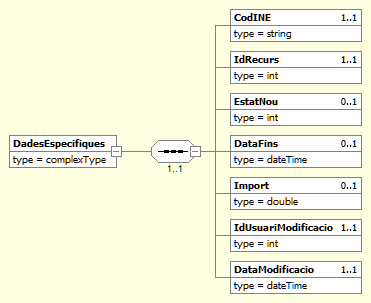
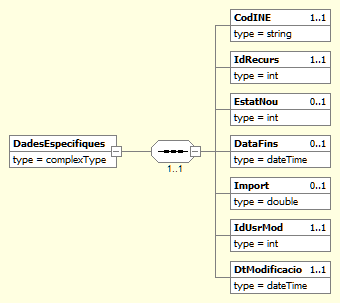
Se suben cambios realizados para adecuar nuestra versión a la de Lleida

diff --git a/ResolucioRecurs.md b/ResolucioRecurs.md
@@ -1,7 +1,7 @@
 # 1. Resolució de recurs (HESTIA_RESOLUCIORECURS)
 L'objectiu d'aquest servei és permetre l'actualització de l'estat d'un recurs de manera externa al servei Hèstia. Al procés de modificació de l'estat d'un recurs l'anomenem resolució del recurs. És important destacar que **només es podran resoldre recursos d'ABSS que tinguin implementat i disponible el servei** [`Avís nou recurs`](AvisNouRecurs.md) i que només es permetran actualitzar recursos associats a l'ABBS que realitza la petició.
 
-Per a poder realitzar l'actualització serà necessari indicar una sèrie  de paràmetres per a localitzar el recurs de manera unívoca. Serà obligatori indicar el codi INE de l'ABSS (`CodINE`), l'identificador intern del recurs a l'Hèstia (`IdRecurs`) i els camps del recurs que es desitgen actualitzar: l'estat del recurs (`EstatNou`), la data de finalització (`DataFins`) i l'import del recurs (`Import`). Finalment, caldrà informar l'identificador intern del professional que sol·licita l'operació (`IdUsuariModificacio`) i la data (`DataModificacio`) per poder traçar i auditar la resolució. 
+Per a poder realitzar l'actualització serà necessari indicar una sèrie  de paràmetres per a localitzar el recurs de manera unívoca. Serà obligatori indicar el codi INE de l'ABSS (`CodINE`), l'identificador intern del recurs a l'Hèstia (`IdRecurs`) i els camps del recurs que es desitgen actualitzar: l'estat del recurs (`EstatNou`), la data de finalització (`DataFins`) i l'import del recurs (`Import`). Finalment, caldrà informar l'identificador intern del professional que sol·licita l'operació (`IdUsrMod`) i la data (`DtModificacio`) per poder traçar i auditar la resolució. 
 
 És necessari indicar que només es permetran actualitzar recursos associats a l'ABBS que realitza la petició. A més, tots els paràmetres són obligatoris.  Per tant, s'aconsella realitzar una consulta sobre el recurs abans de  realitzar l'actualització, amb la finalitat d'obtenir els valors actuals del recurs. D'aquesta manera es podrà enviar el valor que actualment té el recurs, si no es vol modificar algun dels valors.
 
@@ -26,8 +26,8 @@ La missatgeria específica de la petició *HESTIA_RESOLUCIORECURS* es troba defi
 | | 3: Desistiment |
 |DadesEspecifiques/DataFins | Nova data de finalització del recurs |
 |DadesEspecifiques/Import | Import del recurs concedit |
-|DadesEspecifiques/IdUsuariModificacio | Identificador intern del professional que realitza la modificació |
-|DadesEspecifiques/DataModificacio | Data en la qual es realitza la modificació |
+|DadesEspecifiques/IdUsrMod | Identificador intern del professional que realitza la modificació |
+|DadesEspecifiques/DtModificacio | Data en la qual es realitza la modificació |
 
 ## 1.2. Resposta - dades específiques
 La missatgeria específica de la resposta *HESTIA_RECURSOS* es troba definida al document [Resposta_DadesEspecifiques_ResolucioRecursos.xsd](xsd/Resposta_DadesEspecifiques_ResolucioRecursos.xsd)
@@ -48,7 +48,7 @@ La missatgeria específica de la resposta *HESTIA_RECURSOS* es troba definida al
 ## 1.3. Joc de proves
 El joc de proves del servei vàlid per a l’entorn de pre-producció, és el que es detalla a continuació:
 
-|codINE | IdRecurs | EstatNou | DataFins | Import | IdUsuariModificacio | DataModificacio | Resultat|
+|codINE | IdRecurs | EstatNou | DataFins | Import | IdUsrMod | DtModificacio | Resultat|
 |------ | ---------- |------ |------ |------ |------ |------ |------ |
 |999999999 | | | | | | | (-9) Només es pot accedir a informació de la pròpia ABSS que realitza la consulta|
 |9821920002 | 100 | | | | | | (-2)  Identificador de recurs no vàlid |
@@ -94,8 +94,8 @@ El joc de proves del servei vàlid per a l’entorn de pre-producció, és el qu
                         <EstatNou>1</EstatNou>
                         <DataFins>2020-03-03T23:00:00.000</DataFins>
                         <Import>334.3</Import>
-                        <IdUsuariModificacio>370000000</IdUsuariModificacio>
-                        <DataModificacio>2020-03-03T12:08:52.000</DataModificacio>
+                        <IdUsrMod>370000000</IdUsrMod>
+                        <DtModificacio>2020-03-03T12:08:52.000</DtModificacio>
                      </DadesEspecifiques>
                   </ns0:DatosEspecificos>
                </ns0:SolicitudTransmision>
